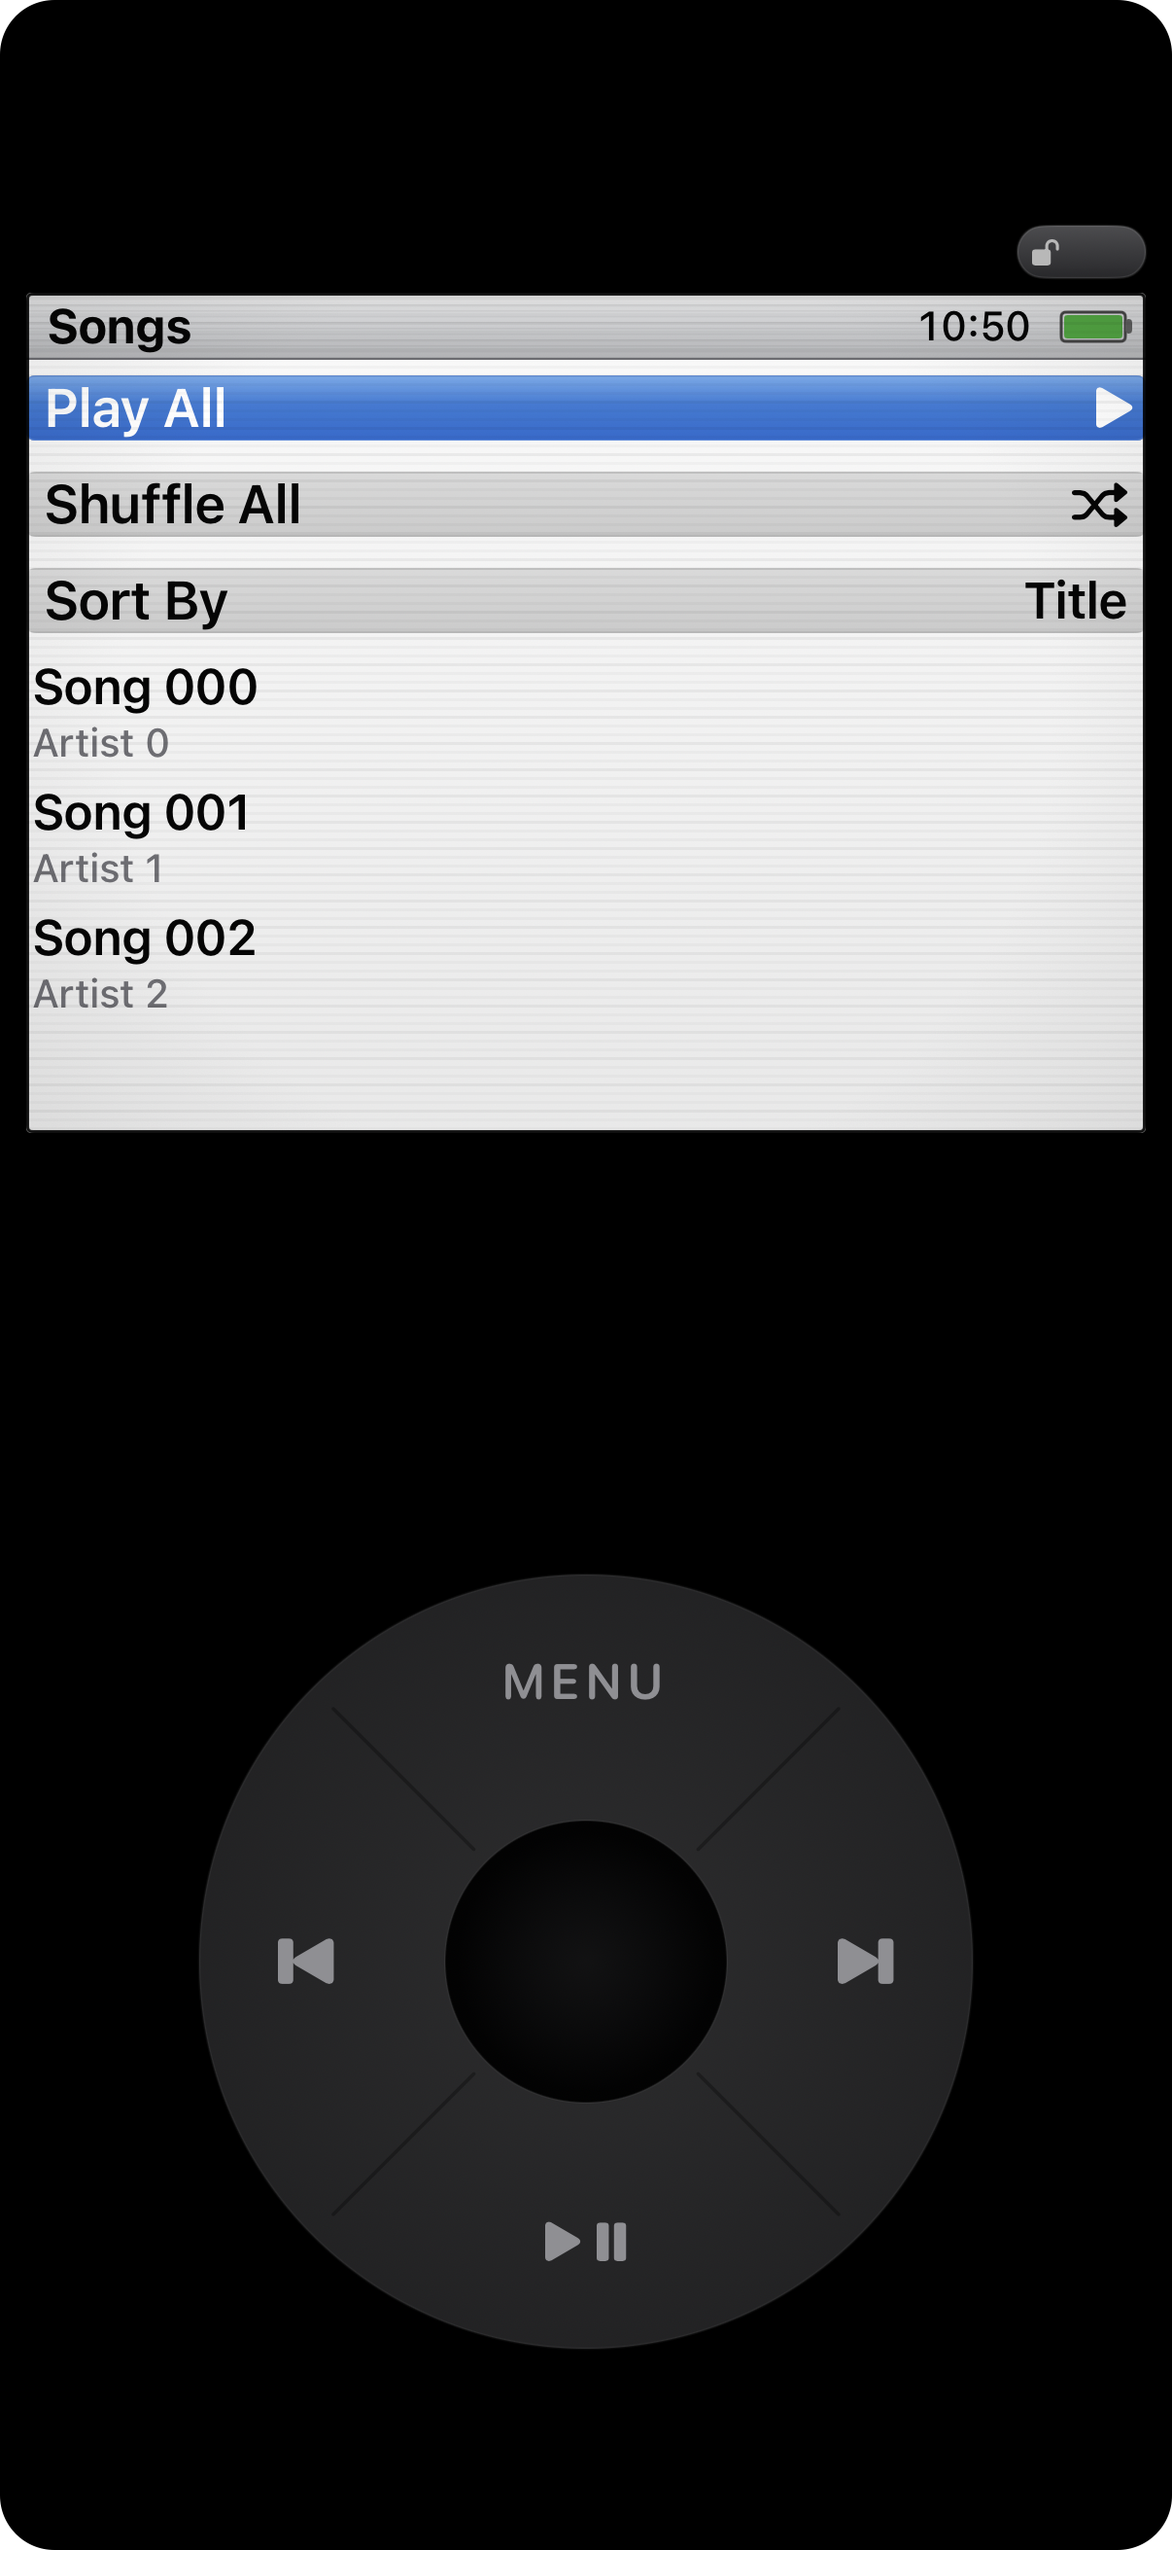
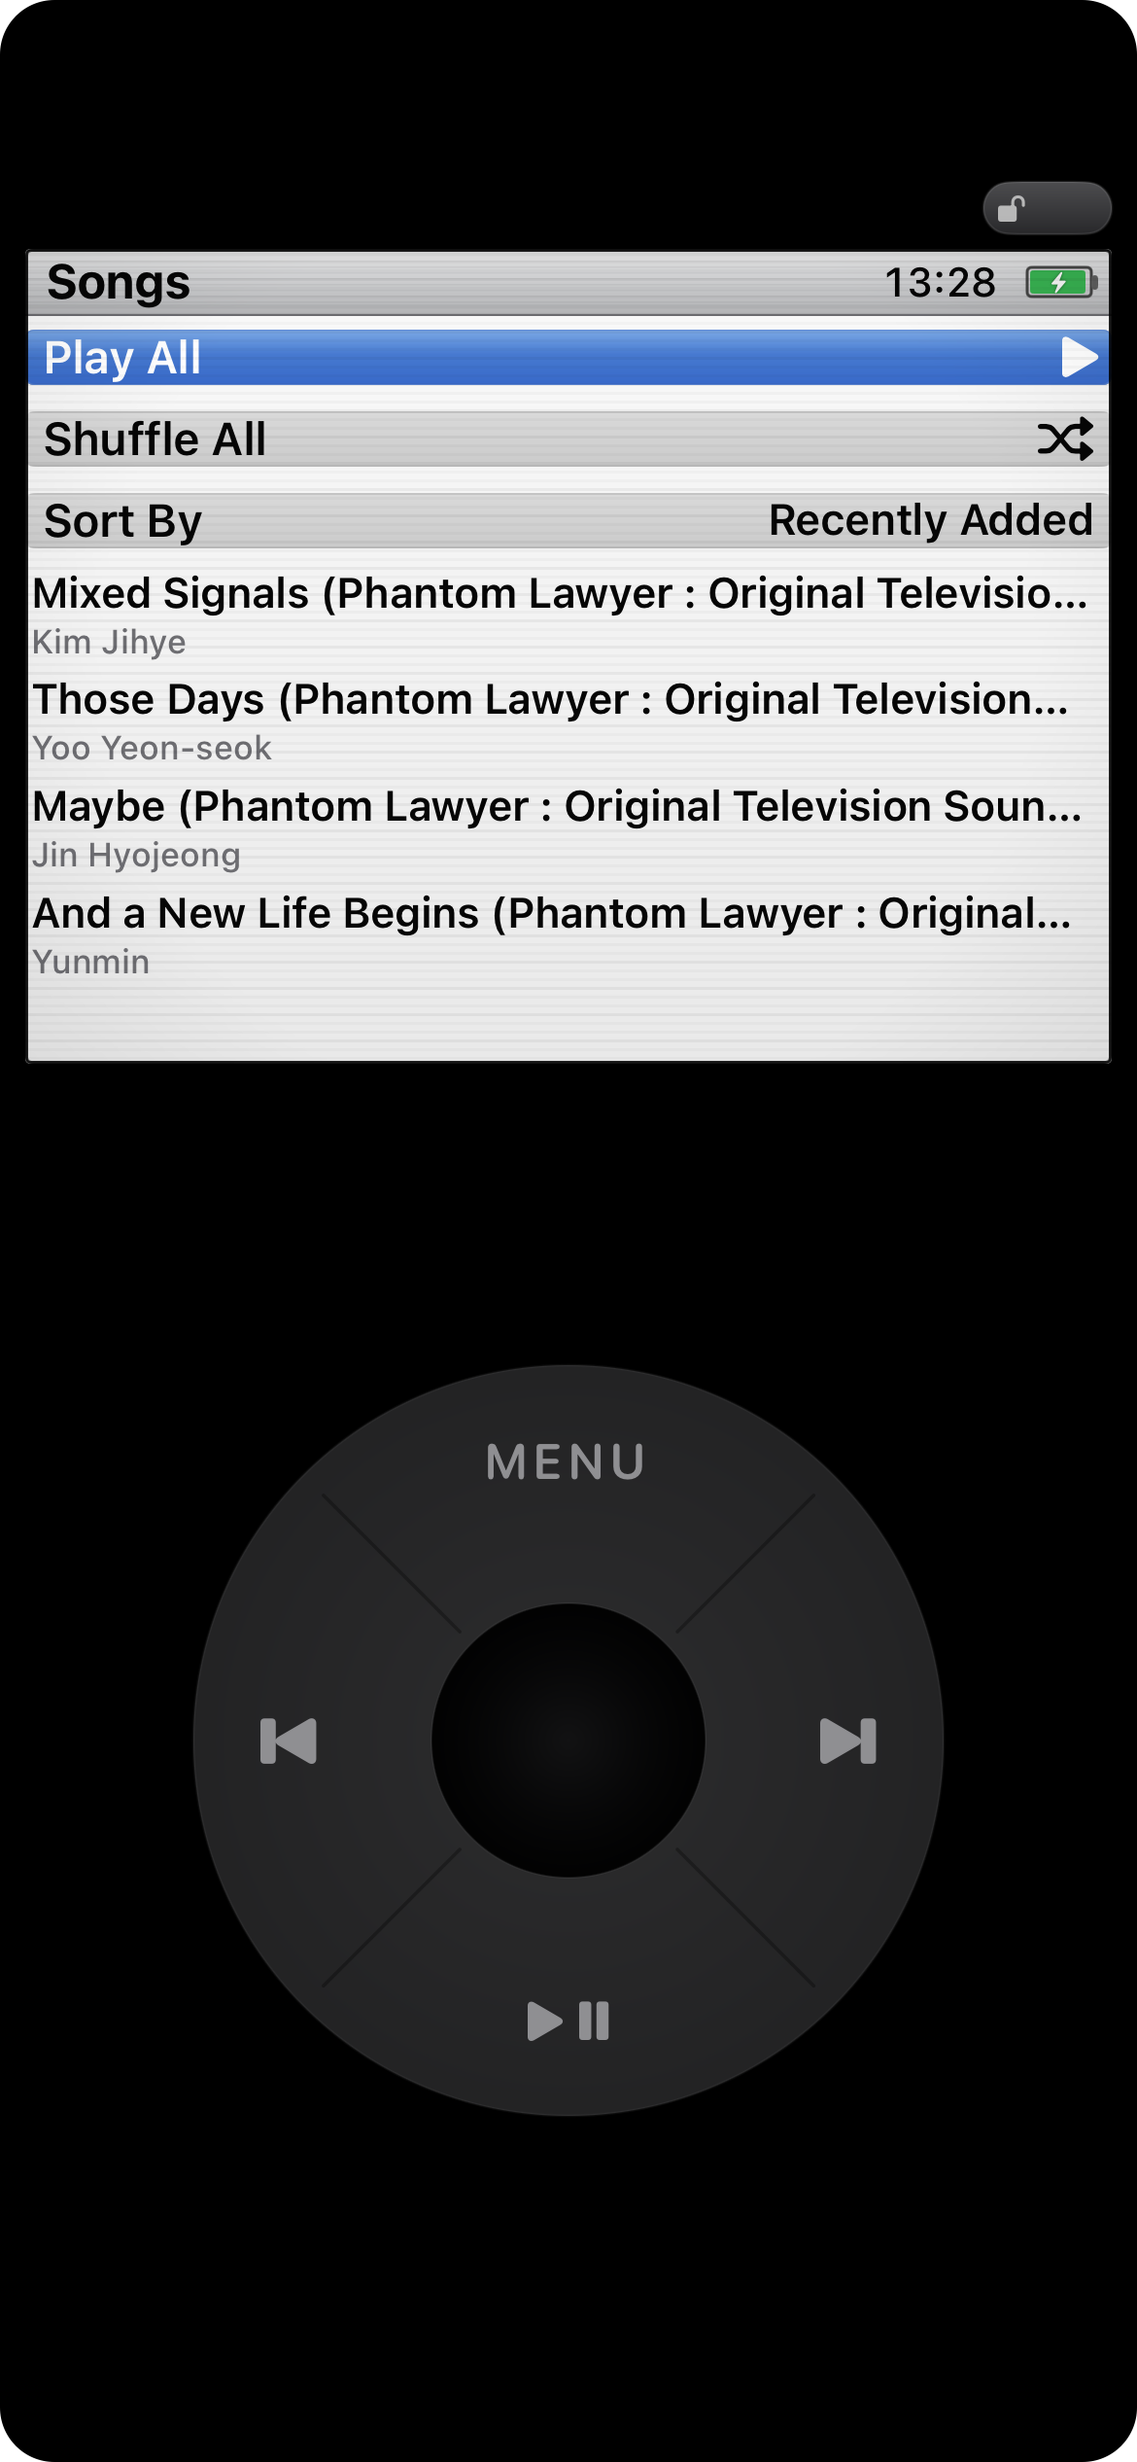
Float the click wheel in the lower body; detached-lighting dim
- Wheel no longer glues to the bottom edge: leftover space below the
  LCD splits 0.55/0.45 so the wheel center sits at ~71% of screen height.
- Idle dim is now detached lighting: screen dims to 0.62, wheel and hold
  switch sink a further 0.30 (gated by the previously-dead Backlight
  Illusion setting) — unlit hardware under glass.
- Fix idle-dim re-render: @State writes body never reads don't invalidate
  a view; ticks go through AppModel.clockTick (tickIdle) instead.
- QA hooks: DIM_AFTER, ALARM_ENABLE=1|0 (from any launch), AUTOPLAY
  (real-library shuffle for device screenshots), READER_FRACTION.
- Refresh all 16 README screenshots (real-device music shots + sim).

diff --git a/Sources/Device/DeviceView.swift b/Sources/Device/DeviceView.swift
@@ -5,12 +5,15 @@ import MediaPlayer
 struct DeviceView: View {
     @Environment(AppModel.self) private var model
     @EnvironmentObject private var settings: AppSettings
-    @State private var heartbeat = Date()
 
     var body: some View {
         GeometryReader { geo in
             let w = geo.size.width
             let h = geo.size.height
+            let wheelSize = w * 0.66
+            // Space left in the body below the LCD (hold switch 24 + screen
+            // top padding 2 + screen height).
+            let free = max(0, h - (h * 0.016 + 26 + w * 0.955 * 0.75 + wheelSize))
             ZStack {
                 Theme.body(settings.theme).ignoresSafeArea()
 
@@ -44,10 +47,14 @@ struct DeviceView: View {
                         .shadow(color: .black.opacity(0.35), radius: 5, x: 0, y: 1)
                         .padding(.top, 2)
 
+                    // The wheel floats in the lower body like the classic's
+                    // face — wheel center lands at ~71% of screen height,
+                    // clear of both the LCD and the bottom edge.
                     Spacer(minLength: 0)
+                        .frame(height: free * 0.55)
 
                     ClickWheelView()
-                        .frame(width: w * 0.66, height: w * 0.66)
+                        .frame(width: wheelSize, height: wheelSize)
                         // Faint ambient shadow so the wheel reads as seated
                         // inside the body.
                         .background(
@@ -57,9 +64,21 @@ struct DeviceView: View {
                                 .offset(y: 2)
                                 .padding(-4)
                         )
+                        // Detached lighting: when the display dims, the wheel
+                        // sinks deeper than the screen — unlit hardware under
+                        // glass, not part of the touchscreen. Backlight
+                        // Illusion controls this detached dim.
+                        .overlay {
+                            Circle()
+                                .fill(Color.black.opacity(
+                                    isDimmed && settings.backlightIllusion ? 0.30 : 0
+                                ))
+                                .animation(.easeIn(duration: 0.3), value: isDimmed)
+                                .allowsHitTesting(false)
+                        }
 
                     Spacer(minLength: 0)
-                        .frame(height: h * 0.045)
+                        .frame(height: free * 0.45)
                 }
             }
         }
@@ -70,15 +89,18 @@ struct DeviceView: View {
             if model.screenAsleep { sleepOverlay }
         }
         .onReceive(Timer.publish(every: 2, on: .main, in: .common).autoconnect()) { _ in
-            heartbeat = Date()
+            model.tickIdle()
         }
         .onReceive(model.controlBus.map { _ in () }) { _ in
-            // Input ends the dim immediately rather than waiting for the heartbeat.
-            heartbeat = Date()
+            // Input ends the dim immediately rather than waiting for the tick.
+            model.tickIdle()
         }
     }
 
     private var isDimmed: Bool {
+        // Reading the heartbeat (not just writing it) is what invalidates
+        // the view — SwiftUI ignores writes to state body never reads.
+        _ = model.clockTick
         let after = TimeInterval(settings.dimAfterSeconds)
         guard after > 0 else { return false }
         return model.idleSeconds > after && model.ringer == nil
@@ -135,6 +157,13 @@ struct HoldSwitchView: View {
     @Environment(AppModel.self) private var model
     @EnvironmentObject private var settings: AppSettings
 
+    private var isDimmed: Bool {
+        _ = model.clockTick
+        let after = TimeInterval(settings.dimAfterSeconds)
+        guard after > 0 else { return false }
+        return model.idleSeconds > after && model.ringer == nil
+    }
+
     var body: some View {
         let silver = settings.theme == 1
         HStack {
@@ -170,6 +199,16 @@ struct HoldSwitchView: View {
                         .padding(.horizontal, 4)
                 }
                 .frame(width: 44, height: 18)
+                // Detached lighting: the lock sinks with the wheel, deeper
+                // than the screen (Backlight Illusion).
+                .overlay {
+                    Capsule()
+                        .fill(Color.black.opacity(
+                            isDimmed && settings.backlightIllusion ? 0.30 : 0
+                        ))
+                        .animation(.easeIn(duration: 0.3), value: isDimmed)
+                        .allowsHitTesting(false)
+                }
             }
             .buttonStyle(.plain)
         }

diff --git a/Sources/App/AppModel.swift b/Sources/App/AppModel.swift
@@ -142,6 +142,33 @@ final class AppModel {
                   name == "readerLast", let first = reader.books.first {
             stack = [.readerBook(first.id)]
         }
+
+        // QA hook: ALARM_ENABLE arms (1) or disarms (0) the alarm from any
+        // launch (bell/keep-alive screenshot checks).
+        if let qaAlarm = ProcessInfo.processInfo.environment["ALARM_ENABLE"] {
+            let store = AlarmStore.shared
+            if qaAlarm == "1", !store.enabled {
+                store.enabled = true
+            } else if qaAlarm == "0", store.enabled {
+                store.enabled = false
+            }
+            store.schedule()
+        }
+
+        // QA hook: AUTOPLAY shuffle-plays the real library at launch
+        // (device screenshots — ApplicationMusicPlayer is a simulator
+        // no-op, so this only bites on hardware).
+        if ProcessInfo.processInfo.environment["AUTOPLAY"] == "1" {
+            Task { @MainActor in
+                await music.refreshIfStale()
+                let songs = music.songs
+                guard !songs.isEmpty else { return }
+                player.shufflePlay(songs)
+                if stack.last != .nowPlaying {
+                    stack.append(.nowPlaying)
+                }
+            }
+        }
     }
 
     static func route(named name: String) -> Route? {
@@ -267,6 +294,13 @@ final class AppModel {
     var idleSeconds: TimeInterval { Date().timeIntervalSince(lastInputAt) }
 
     func markActivity() { lastInputAt = Date() }
+
+    /// UI heartbeat so idle-dim thresholds re-evaluate every couple of
+    /// seconds. Views must READ this (tracked) — writing plain @State that
+    /// body never reads no longer invalidates a SwiftUI view.
+    private(set) var clockTick = Date()
+
+    func tickIdle() { clockTick = Date() }
 
     func startRinger(_ context: RingerContext) {
         ringer = context

diff --git a/Sources/Features/Clocks/ClocksScreens.swift b/Sources/Features/Clocks/ClocksScreens.swift
@@ -84,10 +84,8 @@ struct AlarmScreen: View {
         .onAppear {
             // Ask for notification permission while the user is right here.
             alarm.schedule()
-            // QA hook: arm the alarm (bell/keep-alive screenshot checks).
-            if ProcessInfo.processInfo.environment["ALARM_ENABLE"] == "1", !alarm.enabled {
-                alarm.enabled = true
-            }
+            // (ALARM_ENABLE arm/disarm now lives in AppModel.init so it
+            // applies on every launch, not just this screen.)
             // QA hook: fire the ringer after N seconds for UI tests.
             if let s = ProcessInfo.processInfo.environment["ALARM_FIRE_SECONDS"], let secs = Double(s), secs > 0 {
                 DispatchQueue.main.asyncAfter(deadline: .now() + secs) {

diff --git a/Sources/Features/Reader/ReaderScreens.swift b/Sources/Features/Reader/ReaderScreens.swift
@@ -239,6 +239,11 @@ struct BookScreen: View {
                    let c = Int(cs), chapters.indices.contains(c) {
                     book?.chapterIndex = c
                 }
+                // QA hook: open at an in-chapter fraction (visual checks).
+                if let fs = ProcessInfo.processInfo.environment["READER_FRACTION"],
+                   let f = Double(fs), book?.kind == .epub {
+                    book?.scrollFraction = f
+                }
                 // QA hook: perform N page turns after load (visual checks).
                 if let ts = ProcessInfo.processInfo.environment["READER_TICKS"],
                    let n = Int(ts), book?.kind == .epub {

diff --git a/Sources/App/iPodClassicApp.swift b/Sources/App/iPodClassicApp.swift
@@ -22,6 +22,11 @@ struct iPodClassicApp: App {
            let bundle = Bundle.main.bundleIdentifier {
             UserDefaults.standard.removePersistentDomain(forName: bundle)
         }
+        // QA hook: DIM_AFTER forces the idle-dim threshold in seconds
+        // (screenshots / UI tests; the sim ignores injected defaults).
+        if let s = ProcessInfo.processInfo.environment["DIM_AFTER"], let v = Int(s) {
+            AppSettings.shared.dimAfterSeconds = v
+        }
         _model = State(initialValue: AppModel())
 
         AlarmNotifications.configureDelegate()

diff --git a/AGENTS.md b/AGENTS.md
@@ -18,7 +18,7 @@ There is no linter; keep style consistent with surrounding code. Swift 5, iOS 18
 
 - `project.yml` is the source of truth for the Xcode project; the `.xcodeproj` is generated and committed. Bundle: `com.ipodclassic.app`; the signing team is configured once via `DEVELOPMENT_TEAM` in `project.yml` (never hardcode team IDs in docs).
 - `Sources/App/` — `iPodClassicApp` (@main), `AppModel` (`@Observable`; nav `stack: [Route]`, input router `handle(ControlEvent)`, service singletons), `AppSettings` (`ObservableObject`, UserDefaults-backed). `ControlEvent`/`Route` live in AppModel.swift.
-- `Sources/Device/` — `DeviceView` (body layout, Hold switch, dim/sleep overlays, alarm ringer host), `ScreenView` (LCD + title bar), `CRTOverlay`, `ScreenRouter` (renders the nav stack; deep routes stay alive so state survives pops; top route owns wheel input; `title(for:)` maps routes to title-bar strings).
+- `Sources/Device/` — `DeviceView` (body layout, Hold switch, dim/sleep overlays, alarm ringer host), `ScreenView` (LCD + title bar), `CRTOverlay`, `ScreenRouter` (renders the nav stack; deep routes stay alive so state survives pops; top route owns wheel input; `title(for:)` maps routes to title-bar strings). The wheel floats in the lower body (wheel 0.66×width; the leftover space below the LCD splits 0.55 above / 0.45 below → wheel center ≈ 71% of screen height). Idle dim is "detached lighting": the screen dims to 0.62 black, and the wheel + hold switch sink deeper (+0.30, gated by the Backlight Illusion setting) — unlit hardware under glass, not part of the touchscreen.
 - `Sources/Wheel/` — `ClickWheelView` + `WheelCoordinator` (angle-delta ticks at 15°/detent, button quadrants vs diagonal scroll sectors, press→scroll conversion, hold timers with repeat), `WheelHaptics` (CoreHaptics transients + UIImpact), `TickSounds` (AudioServices; never touches AVAudioSession), `WheelFeedback` (applies haptics/sound settings). The wheel face draws subtle dark-grey diagonal seams between the four button sectors (no press highlight).
 - `Sources/UI/` — `Theme` (colors/fonts: LCD paper, brushed-metal bar, blue selection gradient, dimmed wheel), `MenuComponents` (`MenuItem`, `MenuList`/`MenuRow` incl. thumbnails + subtitles, `SplitMenuLayout`, `ModalPanel`, `moveListSelection` honoring Infinite Tick / Rubber Band Tick).
 - `Sources/Features/` one folder per feature, each self-contained (model + screens):
@@ -44,11 +44,12 @@ There is no linter; keep style consistent with surrounding code. Swift 5, iOS 18
 ## Tests
 
 - `Tests/iPodClassicTests/` — unit tests (no host app): `TimeFormat`, `WheelCoordinator` geometry, alarm hour24 + repeat labels/bitmask, `PlayerModel` volume, `ReaderStore` import/remove/old-format decode, ZIP extraction (stored + deflate + traversal guard), EPUB spine/TOC/title parsing, `HighlightStore`.
-- `Tests/UITests/` — real-gesture E2E over XCUI (`WheelTapTests`, `E2ETests`): wheel drag → tick, center tap, hold timers, navigation depth, alarm ringer fire/dismiss, reader render, songs hold. Launch hooks via `launchEnvironment`: `RESET_DEFAULTS=1`, `START_ROUTE=<route>` (or `readerLast` = reopen last book), `FAKE_LIBRARY=1` (QA seed songs + fake Now Playing track — MusicKit items can't be constructed in tests), `ALARM_FIRE_SECONDS=N`, reader harness: `READER_IMPORT=<file>` / `READER_CHAPTER=<n>` / `READER_TICKS=<n>`, panel shots: `NOW_PLAYING_PANEL=1` / `BOOK_SETTINGS=1`.
-- Screenshots for the README are taken in the simulator with those hooks (`simctl launch` + `simctl io screenshot`), then rounded with `swift scripts/round_corners.swift 56 <pngs>`. gotcha: launching over a running app silently DROPS the `SIMCTL_CHILD_*` env — always `simctl terminate` + `sleep 2` + plain `simctl launch`, and in zsh never pass envs through an unquoted variable (`env $vars` doesn't word-split) — use `export` or inline assignments.
+- `Tests/UITests/` — real-gesture E2E over XCUI (`WheelTapTests`, `E2ETests`): wheel drag → tick, center tap, hold timers, navigation depth, alarm ringer fire/dismiss, reader render, songs hold. Launch hooks via `launchEnvironment`: `RESET_DEFAULTS=1`, `START_ROUTE=<route>` (or `readerLast` = reopen last book), `FAKE_LIBRARY=1` (QA seed songs + fake Now Playing track — MusicKit items can't be constructed in tests), `DIM_AFTER=N` (forces the idle-dim threshold; the sim ignores `defaults write` into the app domain), `ALARM_ENABLE=1|0` (arm/disarm from any launch, not just the alarm screen), `ALARM_FIRE_SECONDS=N`, `AUTOPLAY=1` (shuffle-plays the real library at launch — device only, for real-music screenshots), reader harness: `READER_IMPORT=<file>` / `READER_CHAPTER=<n>` (spine index) / `READER_FRACTION=<0…1>` (in-chapter position) / `READER_TICKS=<n>` (stalls on junk front-matter pages — prefer CHAPTER+FRACTION), panel shots: `NOW_PLAYING_PANEL=1` / `BOOK_SETTINGS=1`.
+- README screenshots: music/menu shots come from the real iPhone via `devicectl device process launch --terminate-existing --environment-variables '{...}'` + `devicectl device capture screenshot` (needs the phone unlocked; AUTOPLAY for real artwork); content-dependent shots (photos, camera, reader, reader_settings, notes, recorder) come from the simulator. All get rounded with `swift scripts/round_corners.swift 56 <pngs>`. Camera shots MUST come from the simulator — device screenshots can't capture the live camera preview (always black). gotchas: launching over a running app silently DROPS the `SIMCTL_CHILD_*` env — always `simctl terminate` + `sleep 2` + plain `simctl launch`, and in zsh never pass envs through an unquoted variable or build env names by string interpolation (`SIMCTL_CHILD_$1` sets the wrong variable) — write each `SIMCTL_CHILD_X=...` inline. `simctl spawn defaults write` into the app's domain is unreliable on the iOS 26.5 sim (the app may not see the value, and `RESET_DEFAULTS` may not clear it) — a stale `display.dimAfter=2` once made every wheel UI test fail because the dim overlay ate the taps; use env hooks, and if a sim acts haunted, check `simctl spawn booted defaults read com.ipodclassic.app <key>`.
 
 ## Conventions & gotchas
 
+- SwiftUI (iOS 17+): writing to a `@State` that `body` never reads does NOT invalidate the view. The old idle-dim heartbeat (`@State heartbeat` written by a 2 s timer but never read) silently never re-rendered — the dim overlay never appeared. Periodic re-renders go through the `@Observable` AppModel instead: `model.tickIdle()` updates the tracked `clockTick`, and anything time-dependent (`isDimmed` in DeviceView/HoldSwitchView) reads it.
 - Screens consume `ControlEvent` in `.onReceive(model.controlBus)` and call `moveListSelection` for lists — never reach into other screens' state.
 - New screens need: a `Route` case, a `ScreenRouter` entry, and a `title(for:)` branch.
 - Music playback requires a real device (ApplicationMusicPlayer is a simulator no-op) and MusicKit working via Xcode automatic signing; camera needs a physical device too.
